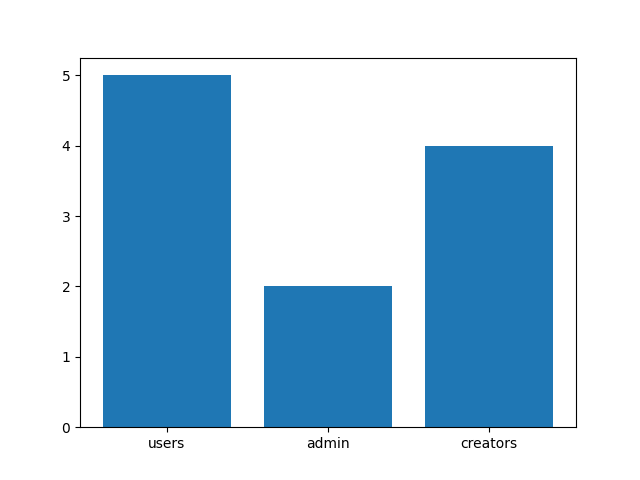
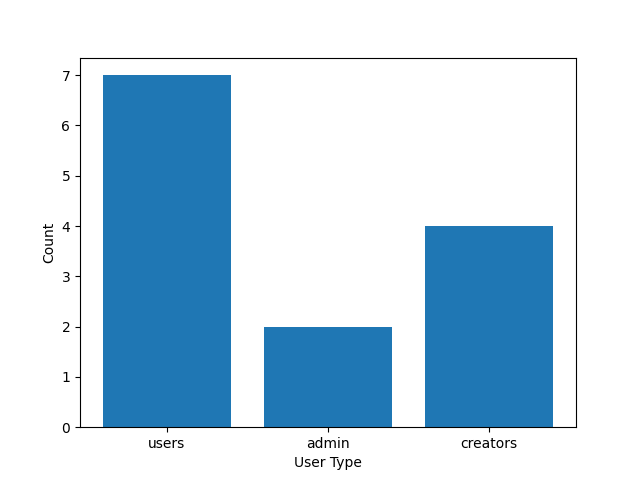
admin stats

diff --git a/templates/admin/search.html b/templates/admin/search.html
@@ -45,22 +45,24 @@
 
                 <div class="col-4">
                     <div class="card mb-1 mt-1">
-                        <a href="{{ url_for('user.creator_profile', user=current_user, creator=creator.creator_id) }}"
-                            style="text-decoration: none;">
-                            <div class="card-header">{{ creator.creator_name }}</div>
-                        </a>
+                        <div class="card-header">
+                            <a href="{{ url_for('admin.creator_profile', user=current_user, creator=creator.creator_id) }}"
+                                style="text-decoration: none;">
+                                {{ creator.creator_name }}
+                            </a>
+                        </div>
                         <div class="card-body stretched-link" data-track-id="{{ track.track_id }}"
                             data-track-file="{{ track.track_file }}" data-track-name="{{ track.track_name }}"
                             data-artists="{{ track.artists }}" data-creatorid="{{ creator.creator_id }}"
                             data-creator="{{ creator.creator_name }}"
                             data-current-user-name="{{ current_user.username }}" data-lyrics="{{ track.lyrics }}"
-                            data-current-user-id="{{ current_user.id }}">
+                            data-current-user-id="{{ current_user.id }}" style="position: relative;">
                             <h5 class="card-title">{{ track.track_name }}{% if track.album_id != 0 %} (album:
                                 {{album.album_name}}) {% endif %}</h5>
                         </div>
-                        <div class="card-footer">
+                        <!-- <div class="card-footer">
                             <small class="text-muted">Last updated 3 mins ago</small>
-                        </div>
+                        </div> -->
                     </div>
                 </div>
                 {% endfor %}
@@ -79,16 +81,12 @@
                         <div class="card-body">
                             {{ creator.bio }}
                         </div>
-                        <div class="card-footer">
-                            <small class="text-muted">Last updated 3 mins ago</small>
-                        </div>
                     </div>
                 </div>
                 {% endfor %}
             </div>
             <br>
             {% endif %}
-
 
             {% if albums %}
             <h5 class="card-title">ALBUMS</h5>
@@ -97,7 +95,7 @@
                 {% if loop.changed(album.album_id) %}
                 <div class="col-4">
                     <div class="card mb-2 mt-1">
-                        <a href="{{ url_for('user.creator_profile', user=current_user, creator=creator.creator_id) }}"
+                        <a href="{{ url_for('admin.creator_profile', user=current_user, creator=creator.creator_id) }}"
                             style="text-decoration: none;">
                             <div class="card-header">{{ album.album_name }} - {{ creator.creator_name }}</div>
                         </a>
@@ -127,7 +125,50 @@
                             </div>
                         </div>
                         <div class="card-footer">
-                            <small class="text-muted">Last updated 3 mins ago</small>
+                            <button type="button" class="btn btn-danger btn-sm" data-bs-toggle="modal"
+                                data-bs-target="#deletealbum_{{ album.album_id }}">
+                                Delete
+                            </button>
+                        </div>
+                    </div>
+                </div>
+
+                <div class="modal fade" id="deletealbum_{{ album.album_id }}" data-bs-backdrop="static"
+                    data-bs-keyboard="false" tabindex="-1" aria-labelledby="deletealbumLabel" aria-hidden="true">
+                    <div class="modal-dialog">
+                        <div class="modal-content">
+                            <div class="modal-header">
+                                <h5 class="modal-title" id="deletealbumLabel">Delete Album "{{
+                                    album.album_name }}"</h5>
+                                <button type="button" class="btn-close" data-bs-dismiss="modal"
+                                    aria-label="Close"></button>
+                            </div>
+                            <div class="modal-body">
+                                <p>Are you sure you want to delete this Album and its associated
+                                    tracks for innappropriate content?
+                                    You
+                                    cannot undo this
+                                    action!!</p>
+
+                                <p>Tracks which will be deleted: </p>
+
+                                <ul class="list-group list-group-flush">
+                                    {% for a, t, c in albums %}
+                                    {% if t.album_id == album.album_id %}
+                                    <li class="list-group-item">✨{{ t.track_name }}</li>
+                                    {% endif %}
+                                    {% endfor %}
+                                </ul>
+
+                            </div>
+                            <div class="modal-footer">
+                                <button type="button" class="btn btn-secondary" data-bs-dismiss="modal">Close</button>
+                                <form method="post">
+                                    <input type="hidden" name="album_id" value="{{ album.album_id }}">
+                                    <button type="submit" name="delete_album" value="yes"
+                                        class="btn btn-danger">Delete</button>
+                                </form>
+                            </div>
                         </div>
                     </div>
                 </div>
@@ -145,7 +186,7 @@
                 <div class="col-4">
                     <div class="card mb-1 mt-1">
                         <div class="card-header">
-                            <a href="{{ url_for('user.creator_profile', user=current_user, creator=creator.creator_id) }}"
+                            <a href="{{ url_for('admin.creator_profile', user=current_user, creator=creator.creator_id) }}"
                                 style="text-decoration: none;">
                                 {{ creator.creator_name }}
                             </a>

diff --git a/templates/admin/creator_profile.html b/templates/admin/creator_profile.html
@@ -255,7 +255,7 @@
                                                     <ul class="list-group list-group-flush">
                                                         {% for song, album_name in songs %}
                                                         {% if album_name == album.album_name %}
-                                                        <li class="list-group-item">{{ song.track_name }}</li>
+                                                        <li class="list-group-item">✨{{ song.track_name }}</li>
                                                         {% endif %}
                                                         {% endfor %}
                                                     </ul>

diff --git a/templates/admin/stats.html b/templates/admin/stats.html
@@ -26,9 +26,10 @@
                 </div>
                 <div class="col">
                     <div class="card h-100">
-                        <img src="..." class="card-img-top" alt="...">
+                        <img src="{{ url_for('static', filename='data_vis_assets/genre_count.png') }}"
+                            class="card-img-top">
                         <div class="card-body">
-                            <h5 class="card-title">Card title</h5>
+                            <h5 class="card-title">Genre wise song Distribution</h5>
                         </div>
                     </div>
                 </div>

diff --git a/application/app_controllers/admin.py b/application/app_controllers/admin.py
@@ -2,7 +2,8 @@ from flask import redirect, url_for, render_template, request, Flask, flash, Blu
 from ..database import db
 import os
 from ..models import *
-from sqlalchemy import desc
+from sqlalchemy import desc, func
+import threading
 from datetime import datetime
 from flask_login import (
     UserMixin,
@@ -46,8 +47,10 @@ def search_result(query):
     return creators, albums, songs, genre
 
 
+import matplotlib
+
+matplotlib.use("agg")
 from matplotlib import pyplot as plt
-import numpy
 
 
 def get_data_vis_assets_path():
@@ -130,7 +133,9 @@ def alert(user):
 @admin.route("/admin/<user>/stats", methods=["GET"])
 @login_required
 def stats(user):
-    plotter()
+    t = threading.Thread(target=plotter())
+    t.start()
+    t.join()
     return render_template("admin/stats.html")
 
 
@@ -209,9 +214,36 @@ def creator_profile(user, creator):
 @admin.route("/admin/a/<user>/search", methods=["POST", "GET"])
 @login_required
 def search(user):
+    query = request.form.get("search")
     if request.method == "POST":
         print(request.form)
-    query = request.form.get("search")
+        delete_song = request.form.get("delete_song")
+        delete_album = request.form.get("delete_album")
+        if delete_song == "yes":
+            song_id = request.form.get("song_id")
+            song2delete = Tracks.query.filter_by(track_id=song_id).first()
+            creator = Creator.query.filter_by(creator_id=song2delete.creator_id).first()
+            creator.songs_published -= 1
+            if song2delete.album_id == 0:
+                creator.no_of_singles -= 1
+            elif song2delete.album_id >= 1:
+                album = Album.query.filter_by(album_id=song2delete.album_id)
+                album.no_of_tracks -= 1
+            db.session.delete(song2delete)
+            db.session.commit()
+        elif delete_album == "yes":
+            album_id = request.form.get("album_id")
+            album = Album.query.filter_by(album_id=album_id).first()
+            tracks = Tracks.query.filter_by(album_id=album_id).all()
+            creator = Creator.query.filter_by(creator_id=album.creator_id).first()
+            no_of_album_tracks = len(tracks)
+            creator.songs_published -= no_of_album_tracks
+            for track in tracks:
+                db.session.delete(track)
+            creator.no_of_albums -= 1
+            db.session.delete(album)
+            db.session.commit()
+
     creators, albums, songs, genre = search_result(query)
     return render_template(
         "admin/search.html",
@@ -231,6 +263,8 @@ def plotter():
     creator_count = Creator.query.count()
     x = ["users", "admin", "creators"]
     y = [user_count, admin_count, creator_count]
+    plt.xlabel("User Type")
+    plt.ylabel("Count")
     plt.bar(x, y)
 
     filename = "user_cat"
@@ -241,11 +275,55 @@ def plotter():
     album_count = Album.query.count()
     singles_count = Tracks.query.filter_by(album_id=0).count()
     album_tracks_count = Tracks.query.count() - singles_count - 1
-    x = ["Albums", "Singles", "Album Songs"]
+    x = ["Albums", "Singles", "Album Tracks"]
     y = [album_count, singles_count, album_tracks_count]
     plt.bar(x, y)
+    plt.xlabel("Music Catalogue")
+    plt.ylabel("Count")
 
     filename = "song_cat"
     filepath = os.path.join(assets_path, filename)
     plt.savefig(filepath)
     plt.close()
+
+    genre_types_count = (
+        db.session.query(Tracks.genre, func.count(Tracks.genre))
+        .group_by(Tracks.genre)
+        .all()
+    )
+
+    genre_types, count = zip(*genre_types_count)
+    plt.bar(genre_types, count)
+    plt.xlabel("Genre")
+    plt.ylabel("Count")
+    filename = "genre_count"
+    filepath = os.path.join(assets_path, filename)
+    plt.savefig(filepath)
+    plt.close()
+
+    from datetime import date
+
+    join_dates = db.session.query(Users.date_joined).all()
+
+    user_count_by_date = {}
+    cumulative_users = []
+
+    for join_date in join_dates:
+        date_str = join_date
+        user_count_by_date[date_str] = user_count_by_date.get(date_str, 0) + 1
+        cumulative_users.append(
+            sum(user_count_by_date.values())
+        )  # Update cumulative count
+
+    dates, user_counts = zip(*sorted(user_count_by_date.items()))
+
+    plt.figure(figsize=(12, 6))
+    plt.plot(cumulative_users, dates)
+    plt.ylabel("Join Date")
+    plt.xlabel("Number of Users Joined")
+    filename = "users_gained"
+    filepath = os.path.join(assets_path, filename)
+    plt.savefig(filepath)
+    plt.close()
+
+    return

diff --git a/application/app_controllers/auth.py b/application/app_controllers/auth.py
@@ -2,6 +2,7 @@ from flask import redirect, url_for, render_template, request, Flask, flash, Blu
 from flask import current_app as app
 from ..database import db
 from ..models import Users
+from datetime import datetime
 from flask_login import (
     UserMixin,
     LoginManager,
@@ -59,11 +60,14 @@ def signup():
         email = request.form["email"]
         password = request.form["password"]
         user = Users.query.filter_by(email=email).first()
+        date = datetime.now().date()
         if user is not None and user.email == email:
             flash("Email already exists")
             return redirect(url_for("auth.signup"))
         else:
-            new_user = Users(username=username, email=email, password=password)
+            new_user = Users(
+                username=username, email=email, password=password, date_joined=date
+            )
             db.session.add(new_user)
             db.session.commit()
 

diff --git a/application/models.py b/application/models.py
@@ -11,6 +11,7 @@ class Users(UserMixin, db.Model):
     email = db.Column(db.String(120), unique=True, nullable=False)
     password = db.Column(db.String(120), nullable=False)
     role = db.Column(db.String(120), nullable=False, default="user")
+    date_joined = db.Column(db.Date)
 
 
 class Creator(db.Model):
